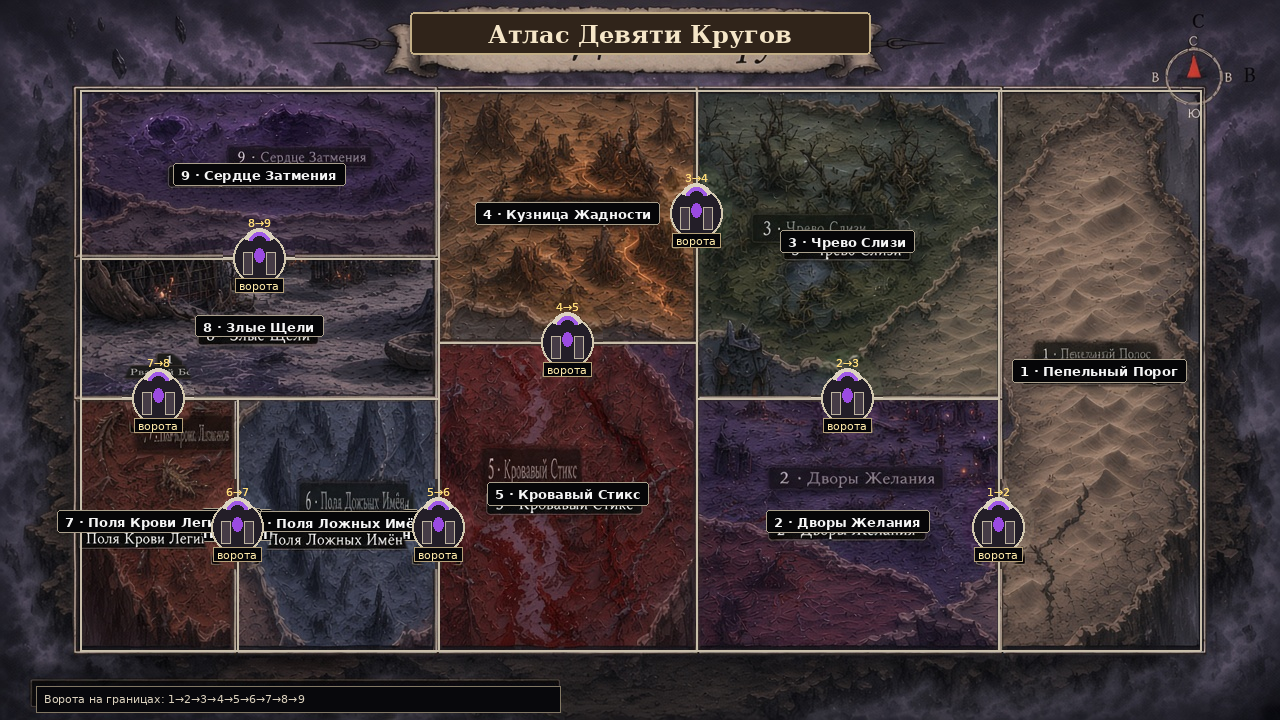
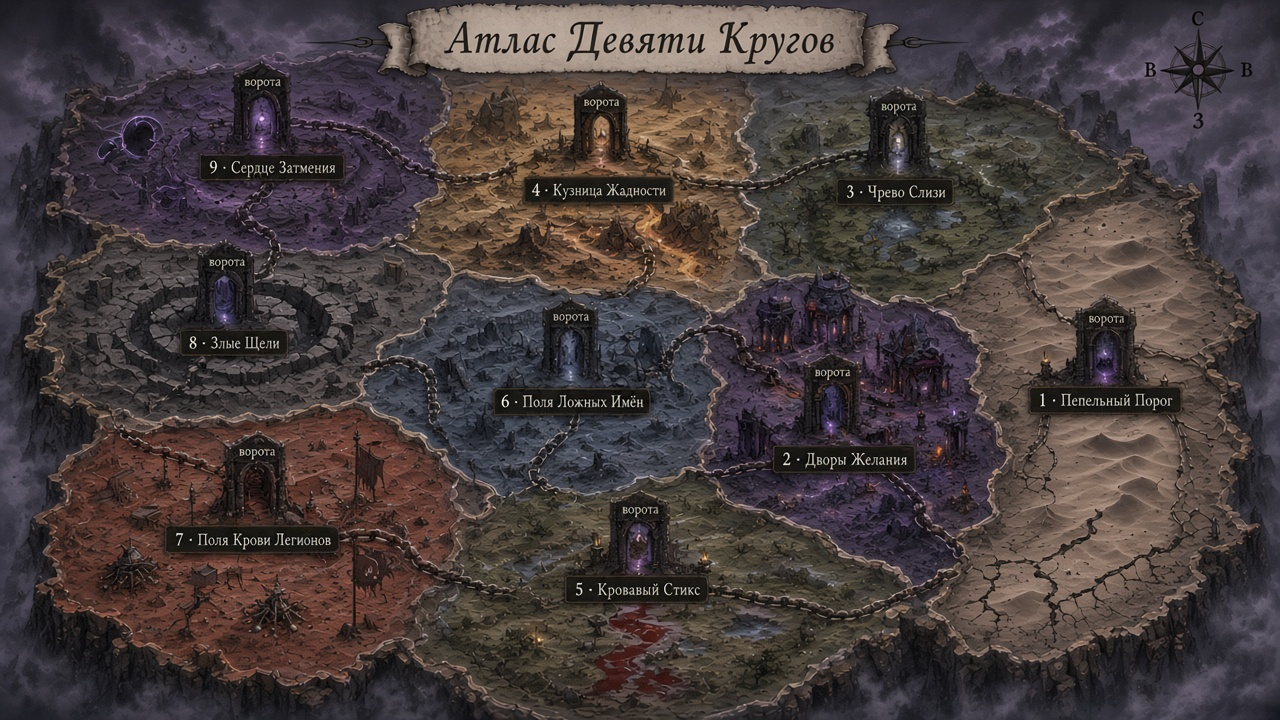
Атлас: откат на v9 — сетка v17 была браком
Вернул живопись Эха, которую мастер принял по стилю.
v17 (коллаж/наклейки) снят с current; ворота — отдельным проходом.

diff --git a/campaign/prep/locations/demon-plane-map-brief.md b/campaign/prep/locations/demon-plane-map-brief.md
@@ -5,47 +5,28 @@ version: v5
 date: 2026-09-23
 ---
 
-# Бриф — атлас 9 кругов (v5)
+# Бриф — атлас 9 кругов
 
-## Компоновка (v17)
+## Статус отрисовки
 
-Одна суша · 9 государств · **ворота строго на общих границах**  
-`1→2→3→4→5→6→7→8→9` (без развилок).  
-**Маяк на обзоре не показывать.**
-
-Эскиз: `gm-sketch-layout.jpg`  
-Топология-лок: `topology-paint-over.png` / `topology-gates.json`
-
-### Расклад (1 справа → змейка к 9 слева-верху)
-
-| # | Где |
+| Версия | Вердикт |
 |---|---|
-| 1 | высокий столбец справа |
-| 2 | низ, слева от 1 |
-| 3 | верх, над 2 |
-| 4 | верх-центр, слева от 3 |
-| 5 | низ-центр, под 4 (общая граница 4\|5) |
-| 6 | низ, между 7 и 5 (**не** центр карты) |
-| 7 | низ-лево |
-| 8 | середина-лево, над 7 |
-| 9 | верх-лево |
+| **v9** | стиль Эха — **ок**, текущий draft (откат) |
+| v17 | брак: сетка-коллаж + UI-наклейки |
+| v18–v21 | пробы; ворота снова уезжают в центры стран |
 
-Ворота: 8 арок **на** линиях `1|2`, `2|3`, `3|4`, `4|5`, `5|6`, `6|7`, `7|8`, `8|9`.
+## Цель следующего прохода
 
-## Эстетика
-
-Стиль Эха (Маяк / Причал): живопись, пепел, синяк-небо, фиолет.  
-Подписи — чёрные плашки; заголовок пергамент; компас `С В Ю З`.
+1. Живопись уровня v9 / Маяк / Причал (один материк, не панельки).  
+2. Змейка государств по `gm-sketch-layout.jpg`.  
+3. **8 арок на хребтах-границах** `1|2…8|9` — без цепей, без орбов, без футера.  
+4. Без Маяка.
 
 ## Whitelist
 
-1–9 имена колонки B + `ворота` на границах + заголовок + компас.
+Имена B + `ворота` + заголовок + компас.
 
-## Запрещено
+## Выход сейчас
 
-Алтарь · Филактерий · Око · носители · Причал · Купель · НПС · 666 · Маяк · ворота внутри страны
-
-## Выход
-
-- `assets/maps/demon-plane/demon-plane-atlas-v17.png` (= current)  
+- `assets/maps/demon-plane/demon-plane-atlas-v9.png` (= current)  
 - `campaign/prep/locations/demon-plane-map.png`

diff --git a/campaign/prep/orchestrator/demon-plane-map-plan.md b/campaign/prep/orchestrator/demon-plane-map-plan.md
@@ -17,12 +17,12 @@ parent: plane-maps-plan.md
 | Имена 9 кругов | **LOCKED · B** [`canon-lock-2026-09-23-demon-plane-circle-names-b.md`](../../plot/canon-lock-2026-09-23-demon-plane-circle-names-b.md) |
 | Gazetteer | [`../locations/demon-plane-gazetteer.md`](../locations/demon-plane-gazetteer.md) |
 | Бриф компоновки | done — кольца [`../locations/demon-plane-map-brief.md`](../locations/demon-plane-map-brief.md) |
-| Отрисовка | **draft v17** — стиль Эха · ворота на границах 1→…→9 · без Маяка · ждём ok |
+| Отрисовка | **draft v9** (откат) — стиль ок · ворота/порядок — следующий проход |
 
 ## Whitelist player
 
-`Пепельный Порог` · `Дворы Желания` · `Чрево Слизи` · `Кузница Жадности` · `Кровавый Стикс` · `Поля Ложных Имён` · `Поля Крови Легионов` · `Злые Щели` · `Сердце Затмения` + ворота на границах (без Маяка на обзоре)
+`Пепельный Порог` · `Дворы Желания` · `Чрево Слизи` · `Кузница Жадности` · `Кровавый Стикс` · `Поля Ложных Имён` · `Поля Крови Легионов` · `Злые Щели` · `Сердце Затмения` + ворота на границах (без Маяка)
 
 ## Дальше
 
-Ждём ok мастера на v17 → LOCK атласа → план мёртвых (после Причала).
+Новый проход: сохранить живопись v9, починить только границы/ворота (без сетки Pillow).

diff --git a/campaign/prep/locations/demon-plane-map.md b/campaign/prep/locations/demon-plane-map.md
@@ -1,7 +1,7 @@
 ---
 title: "План демонов — обзорная карта"
 status: draft
-version: v17
+version: v9
 audience: players
 locks:
   - ../../plot/canon-lock-2026-09-23-demon-plane-geometry.md
@@ -12,9 +12,9 @@ locks:
 
 ![Атлас](demon-plane-map.png)
 
-**Статус:** draft **v17** — стиль Эха · порядок змейки по эскизу · **ворота на границах** · ждём ok.  
-**Маяка нет.**
+**Статус:** draft **v9** — стиль Эха ( Mag ок) · **откат с v17** (сетка/наклейки — брак).  
+Ждём следующего прохода: ворота на границах без убийства живописи.
 
-## Цепь проходов
+## Цепь (цель)
 
-`Пепельный Порог → Дворы Желания → Чрево Слизи → Кузница Жадности → Кровавый Стикс → Поля Ложных Имён → Поля Крови Легионов → Злые Щели → Сердце Затмения`
+`1→2→3→4→5→6→7→8→9` · Маяка нет.

diff --git a/assets/maps/README.md b/assets/maps/README.md
@@ -10,4 +10,4 @@ title: Карты
 - [Карта Ледяного Союза](ledyanoy-soyuz-map.jpg) — [`world/locations/ledyanoy-soyuz-map.md`](../../world/locations/ledyanoy-soyuz-map.md) **(LOCKED)**
 - [Серый Причал (план мёртвых)](seryy-prichal/seryy-prichal-map.png) — playbook [`campaign/prep/locations/seryy-prichal/`](../../campaign/prep/locations/seryy-prichal/)
 - [Маяк душ (план демонов)](mayak-dush/mayak-dush-map.png) — **LOCKED v4** · [`campaign/prep/locations/mayak-dush/`](../../campaign/prep/locations/mayak-dush/)
-- [Атлас Девяти Кругов](demon-plane/demon-plane-atlas.png) — **draft v17** · [`campaign/prep/locations/demon-plane-map.md`](../../campaign/prep/locations/demon-plane-map.md)
+- [Атлас Девяти Кругов](demon-plane/demon-plane-atlas.png) — **draft v9** (откат) · [`campaign/prep/locations/demon-plane-map.md`](../../campaign/prep/locations/demon-plane-map.md)
